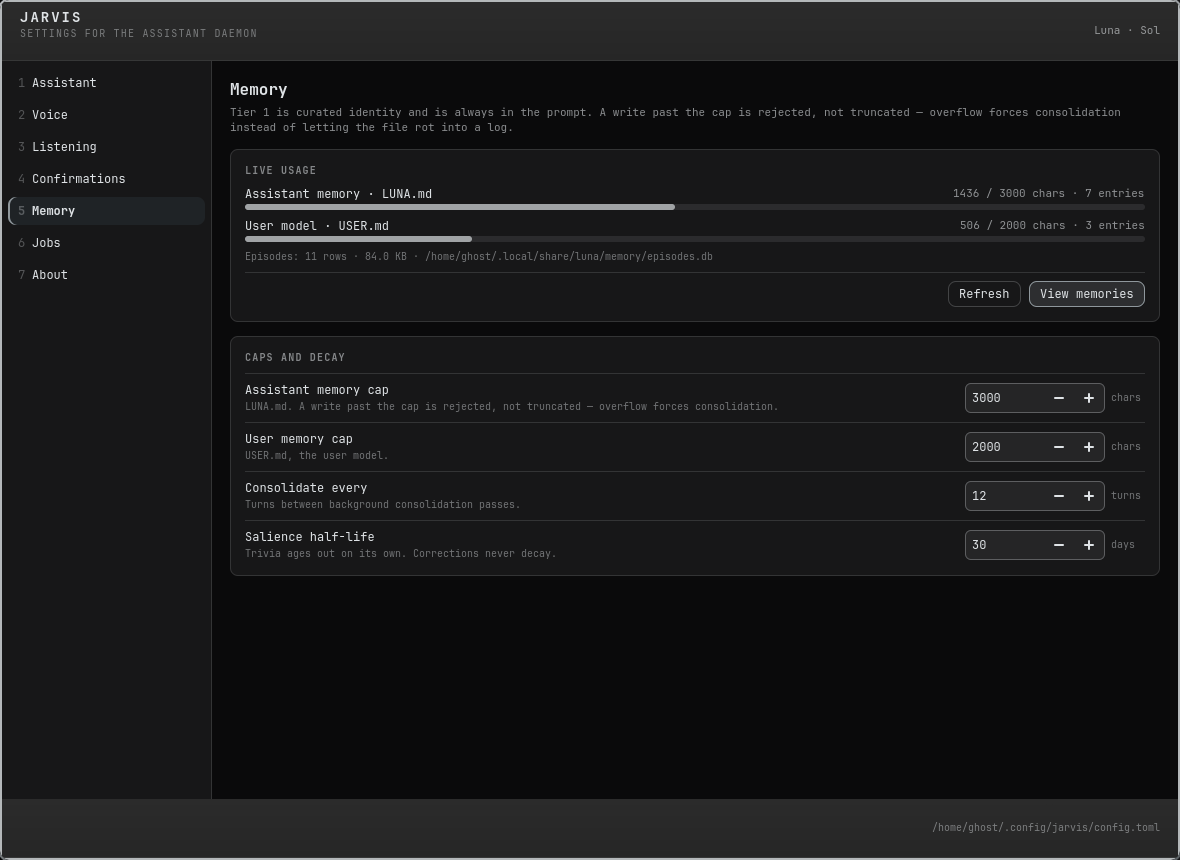
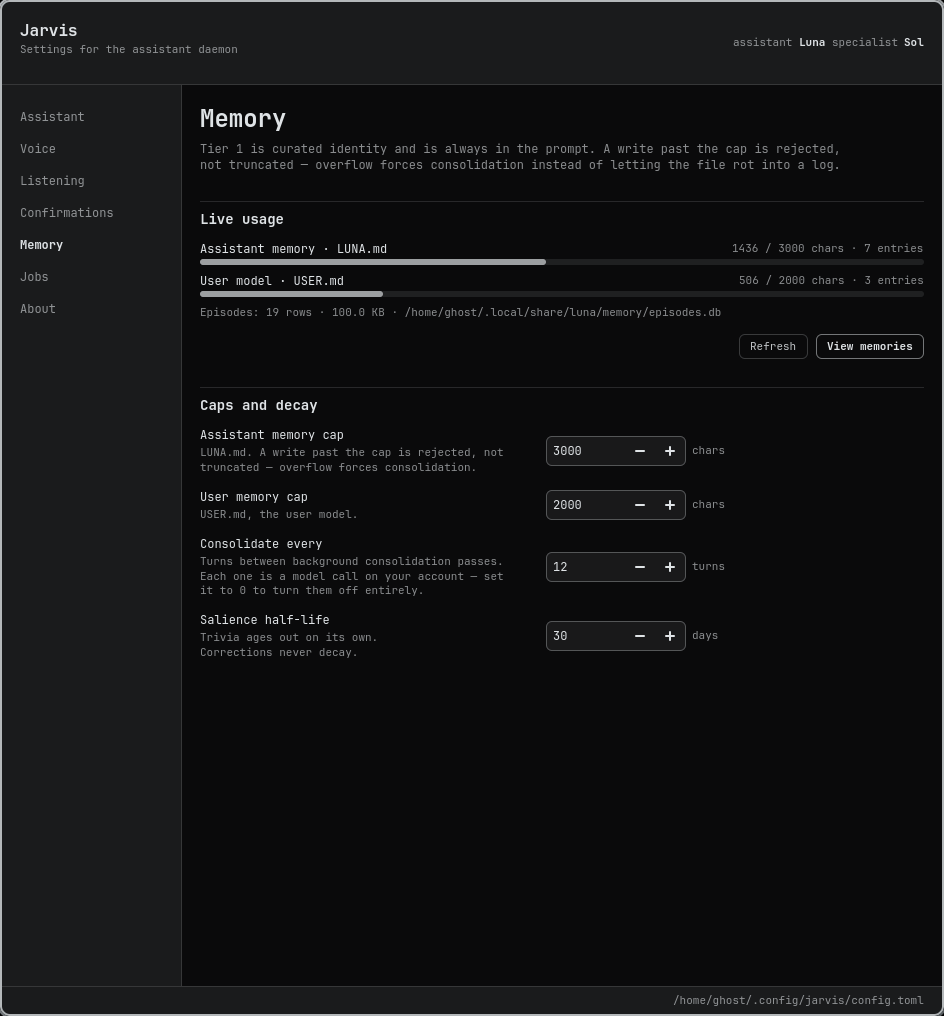
jarvis-settings: reshoot the pane screenshots for the new look
The seven pane captures in the README were of the boxed layout. Also
corrects two lines of README copy the redesign made wrong: the
confirmation labels, and the widget module's inventory now that `card`
is gone and `group` has taken its place.

docs/memories.png, docs/daemon-down.png and docs/edit-persisted.png still
show the old look — each needs a pointer or a stopped daemon to reproduce
and cannot be captured from here.

Claude-Session: https://claude.ai/code/session_01RfsdbB5aqHMJgwCkzTDDfC

diff --git a/jarvis-settings/README.md b/jarvis-settings/README.md
@@ -40,7 +40,7 @@ system.
 | 1 | Assistant | `[assistant]` — name, specialist, agent, model |
 | 2 | Voice | `[voice]` — provider, TTS model, both voice pickers with per-voice preview, fallback, speed, spoken-length cap |
 | 3 | Listening | `[listen]` — provider, STT model and language, **written through to `~/.config/voxtype/config.toml`**; the on/off switch, which is the router's; and the keybind, **displayed, not editable** (it lives in `~/.config/hypr/bindings.lua`) |
-| 4 | Confirmations | `[confirm]` + `[confirm.prompt]` — a three-way **Never ask / Ask first / Never allow** per action class, plus the four immovable denies |
+| 4 | Confirmations | `[confirm]` + `[confirm.prompt]` — a three-way **Allow / Ask first / Refuse** per action class, each row saying in words what its answer does, plus the four immovable denies |
 | 5 | Memory | `[memory]` caps and decay, live usage bars read from `~/.local/share/luna/memory/`, and a read-only **View memories** window |
 | 6 | Jobs | `[dispatch]` plus the recent job list read from `~/.local/share/luna/jobs/` |
 | 7 | About | daemon status, version, whether an API key exists (never the key), links to the audit and daemon logs, and any config keys Jarvis does not recognise |
@@ -160,7 +160,7 @@ jarvis-settings/
   jarvis/
     app.py               # Gtk.Application, window chrome, sidebar, --pane
     panes.py             # the seven panes + the Binder that types every control
-    widgets.py           # section header, separator, card, row, button, TriToggle
+    widgets.py           # section header, separator, group, row, button, TriToggle
     theme.py             # palette -> GTK4 CSS, design tokens, ThemeWatch
     editor.py            # validate -> coalesce -> apply live -> persist
     config.py            # load / validate / atomic 0600 save
